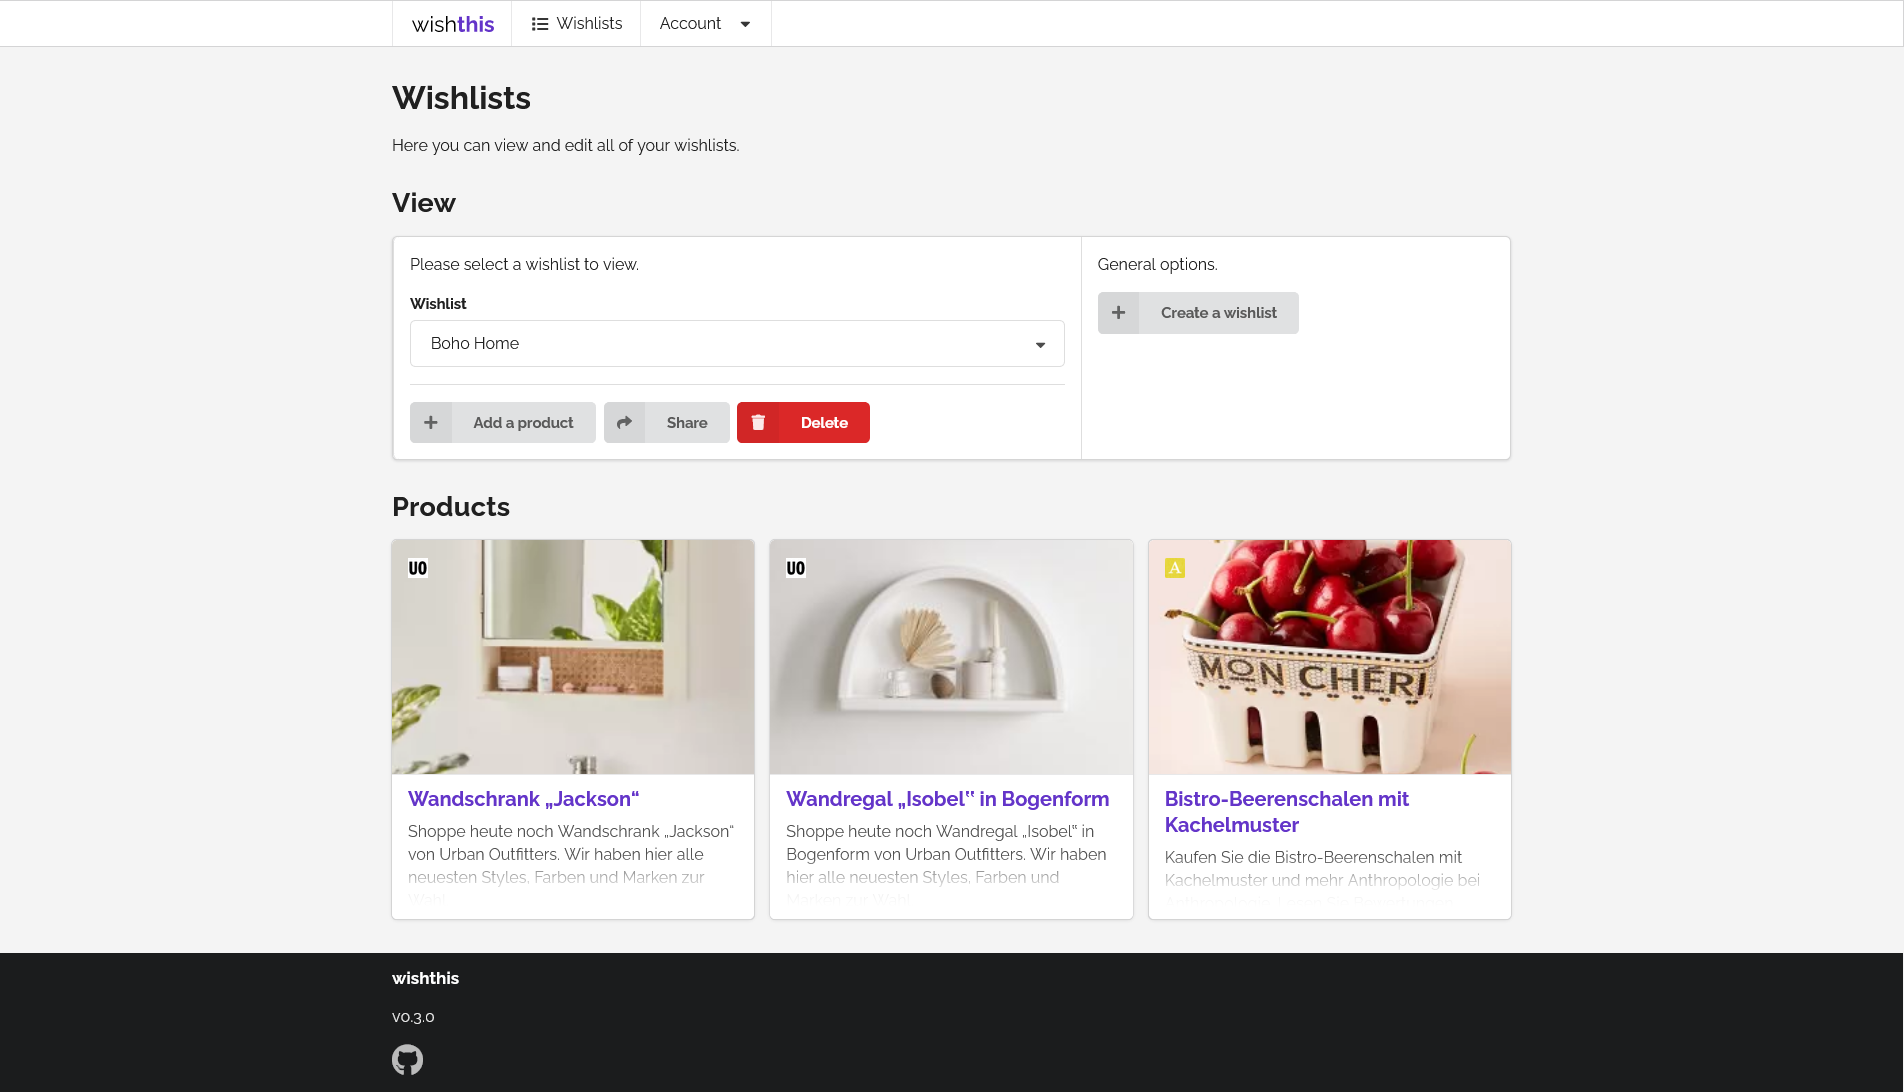
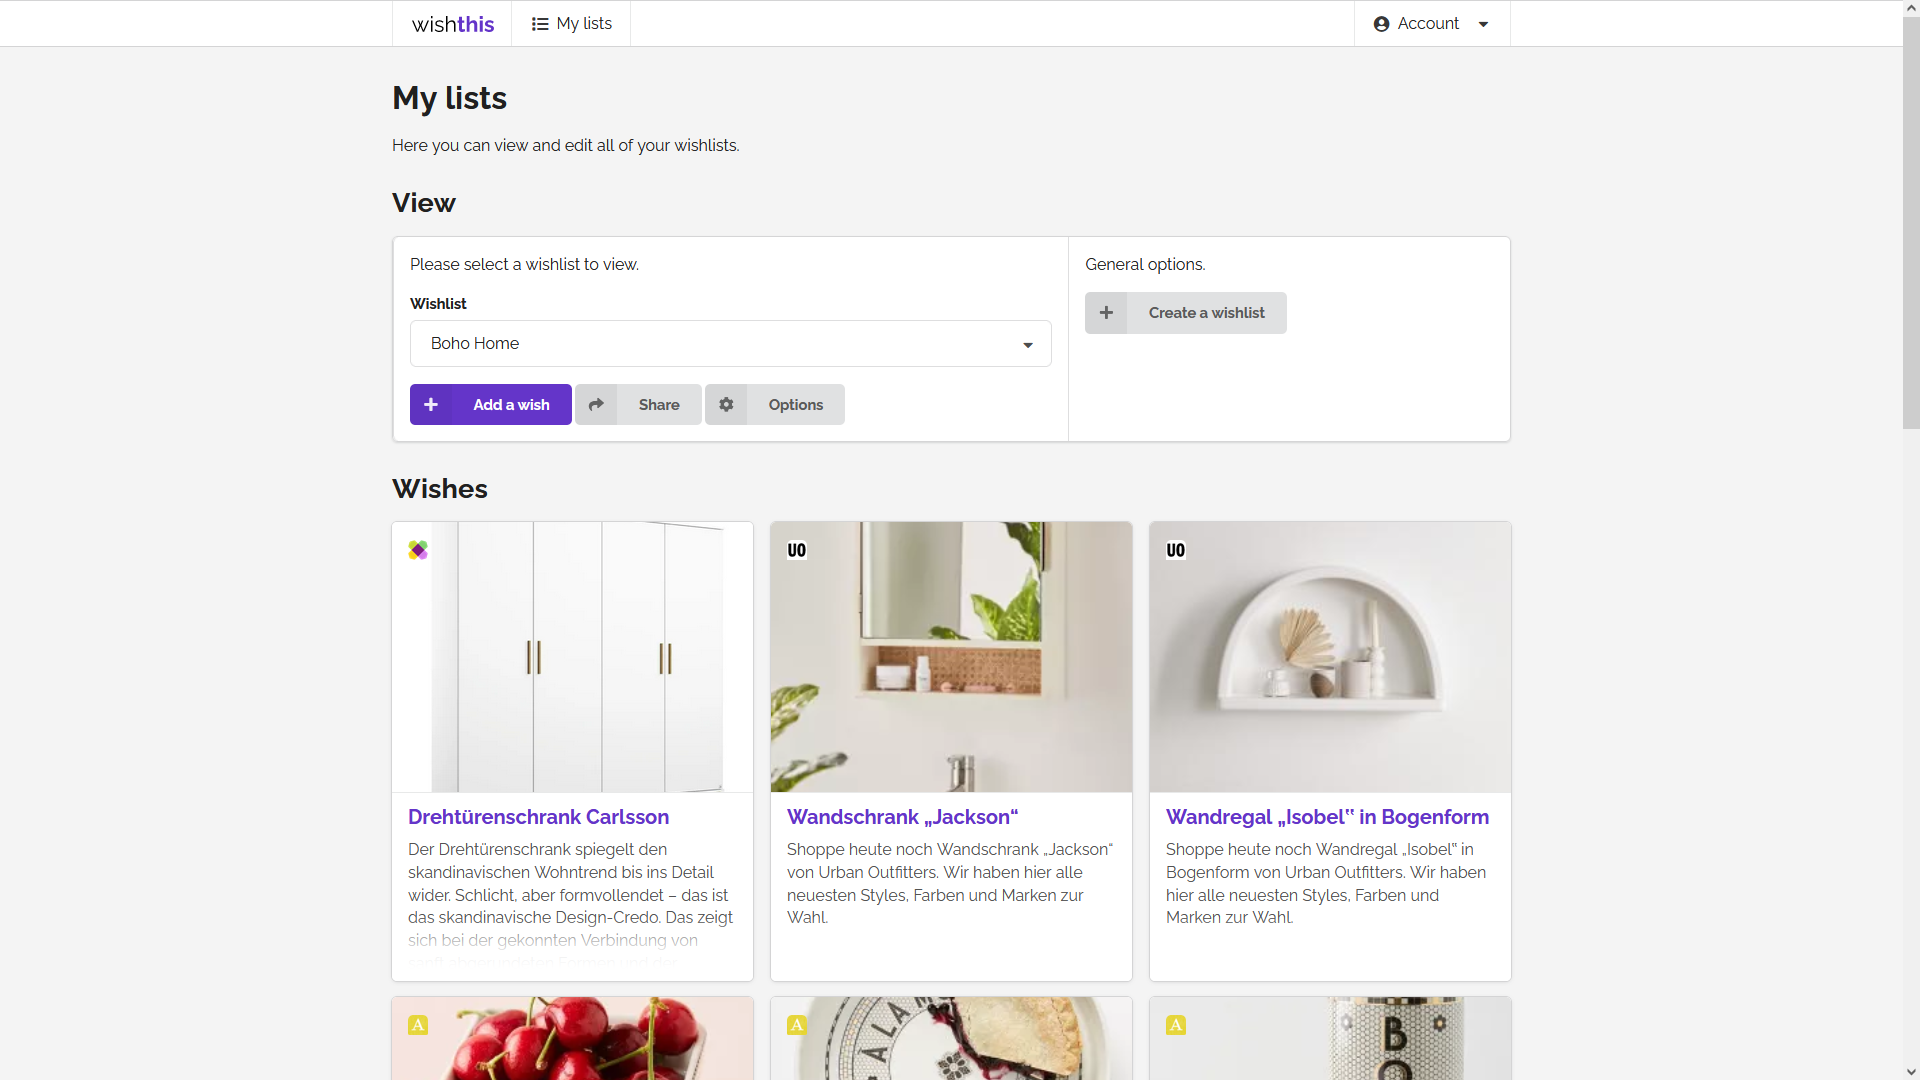
Update screenshots

diff --git a/README.md b/README.md
@@ -3,7 +3,10 @@
 wishthis is a simple, intuitive and modern wishlist platform to create, manage and view
 your wishes for any kind of occasion ([demo](https://wishthis.online)).
 
-![Wishlists](/src/assets/img/screenshots/wishlists.png "Wishlists")
+## Screenshots
+| Home                                                 | Wishlists                                                           |
+| ---------------------------------------------------- | ------------------------------------------------------------------- |
+| ![Home](/src/assets/img/screenshots/home.png "Home") | ![Wishlists](/src/assets/img/screenshots/wishlists.png "Wishlists") |
 
 ## Join the conversation
 
